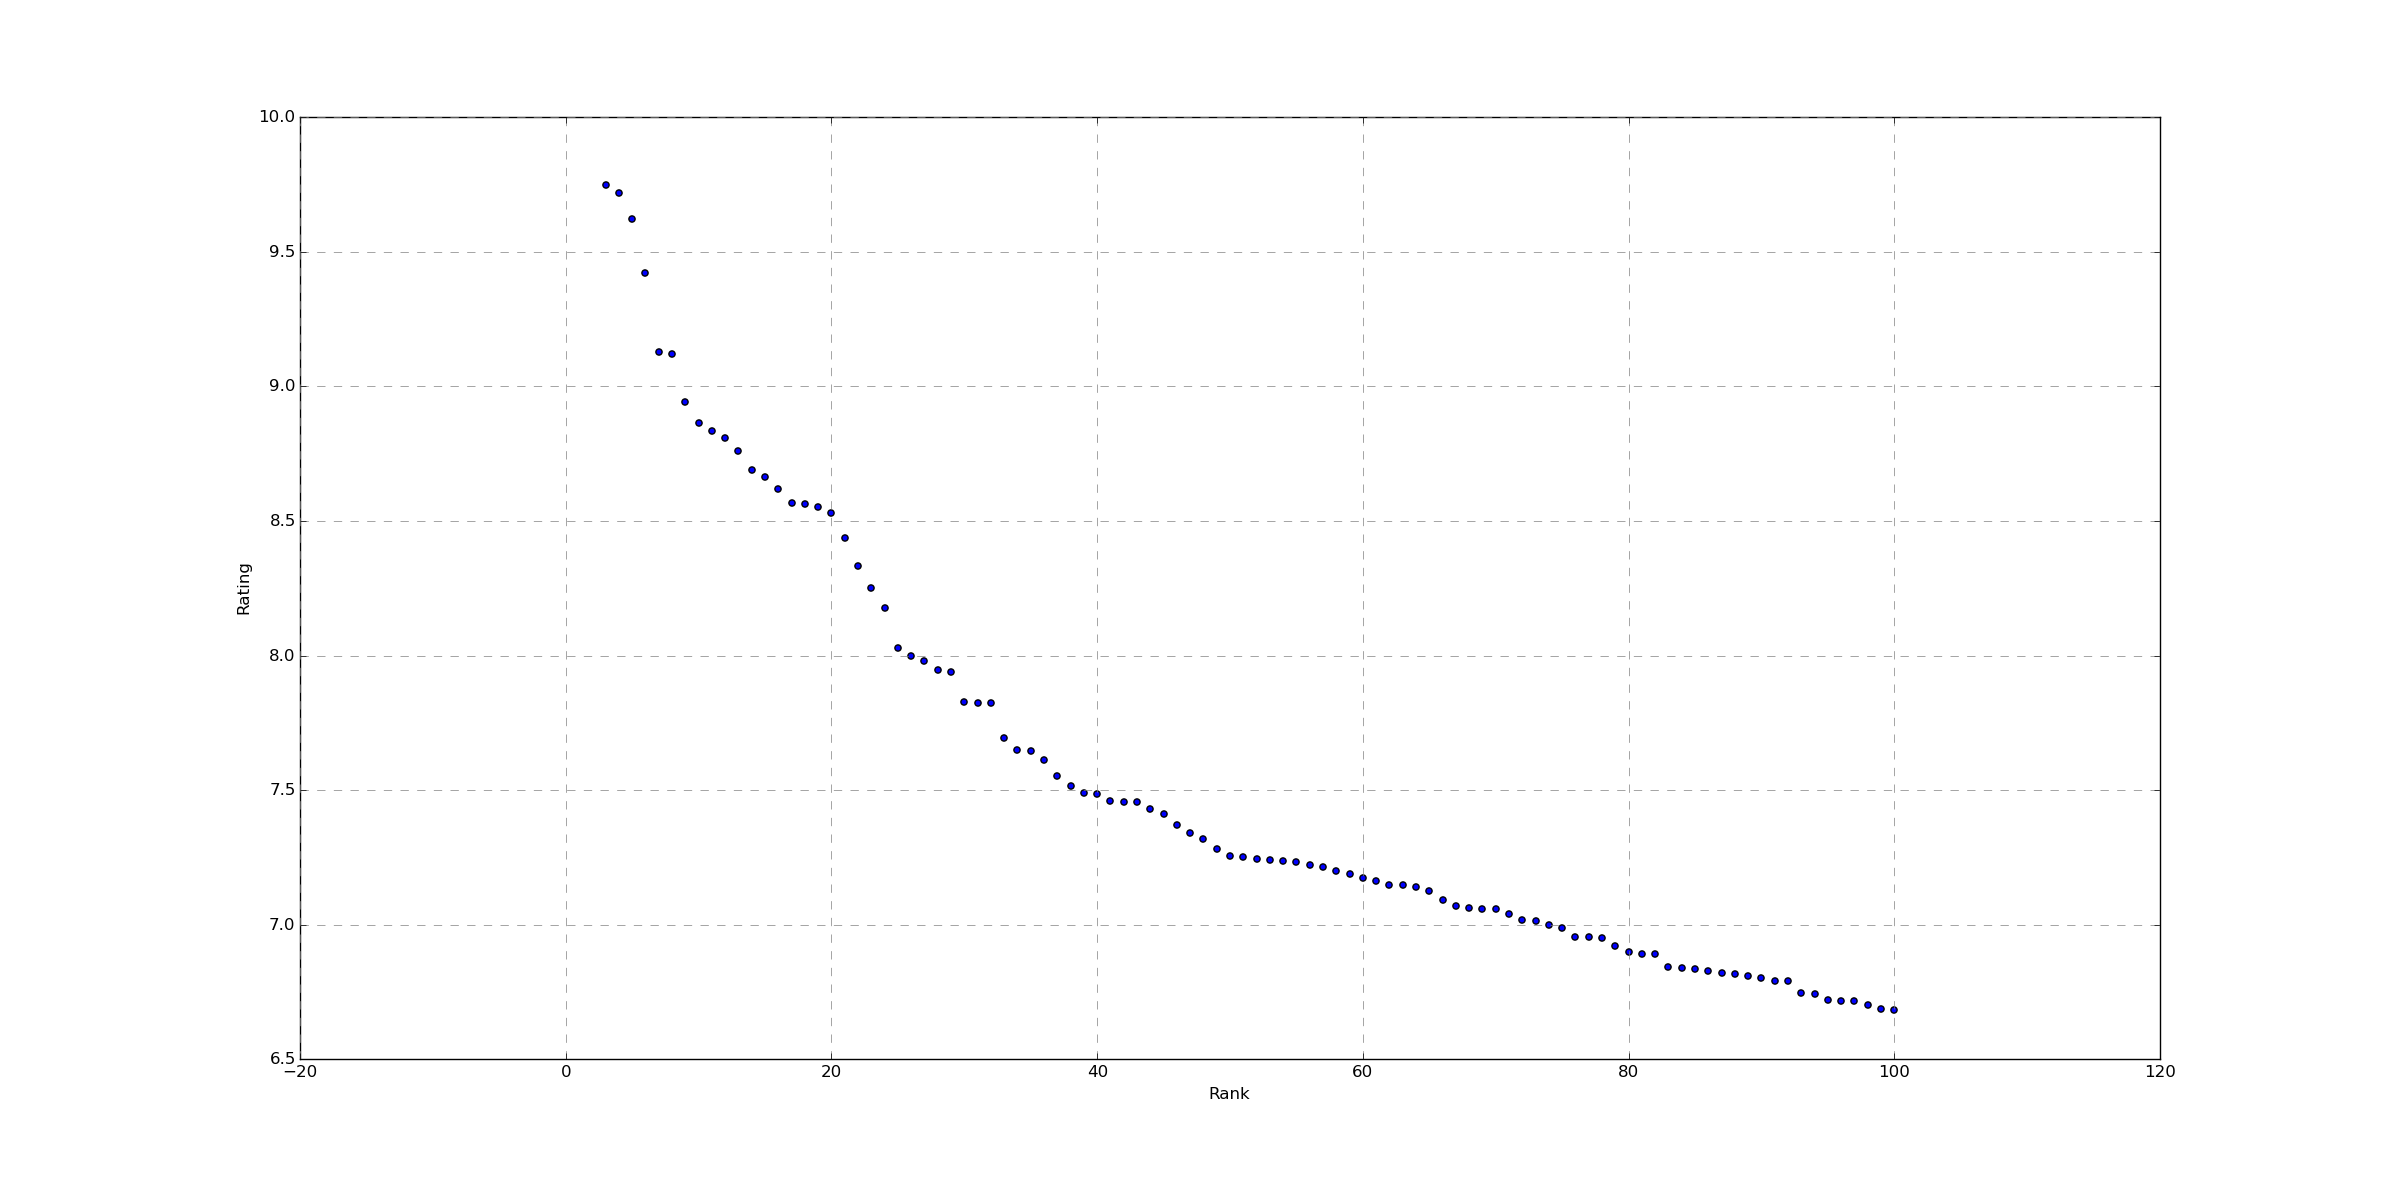
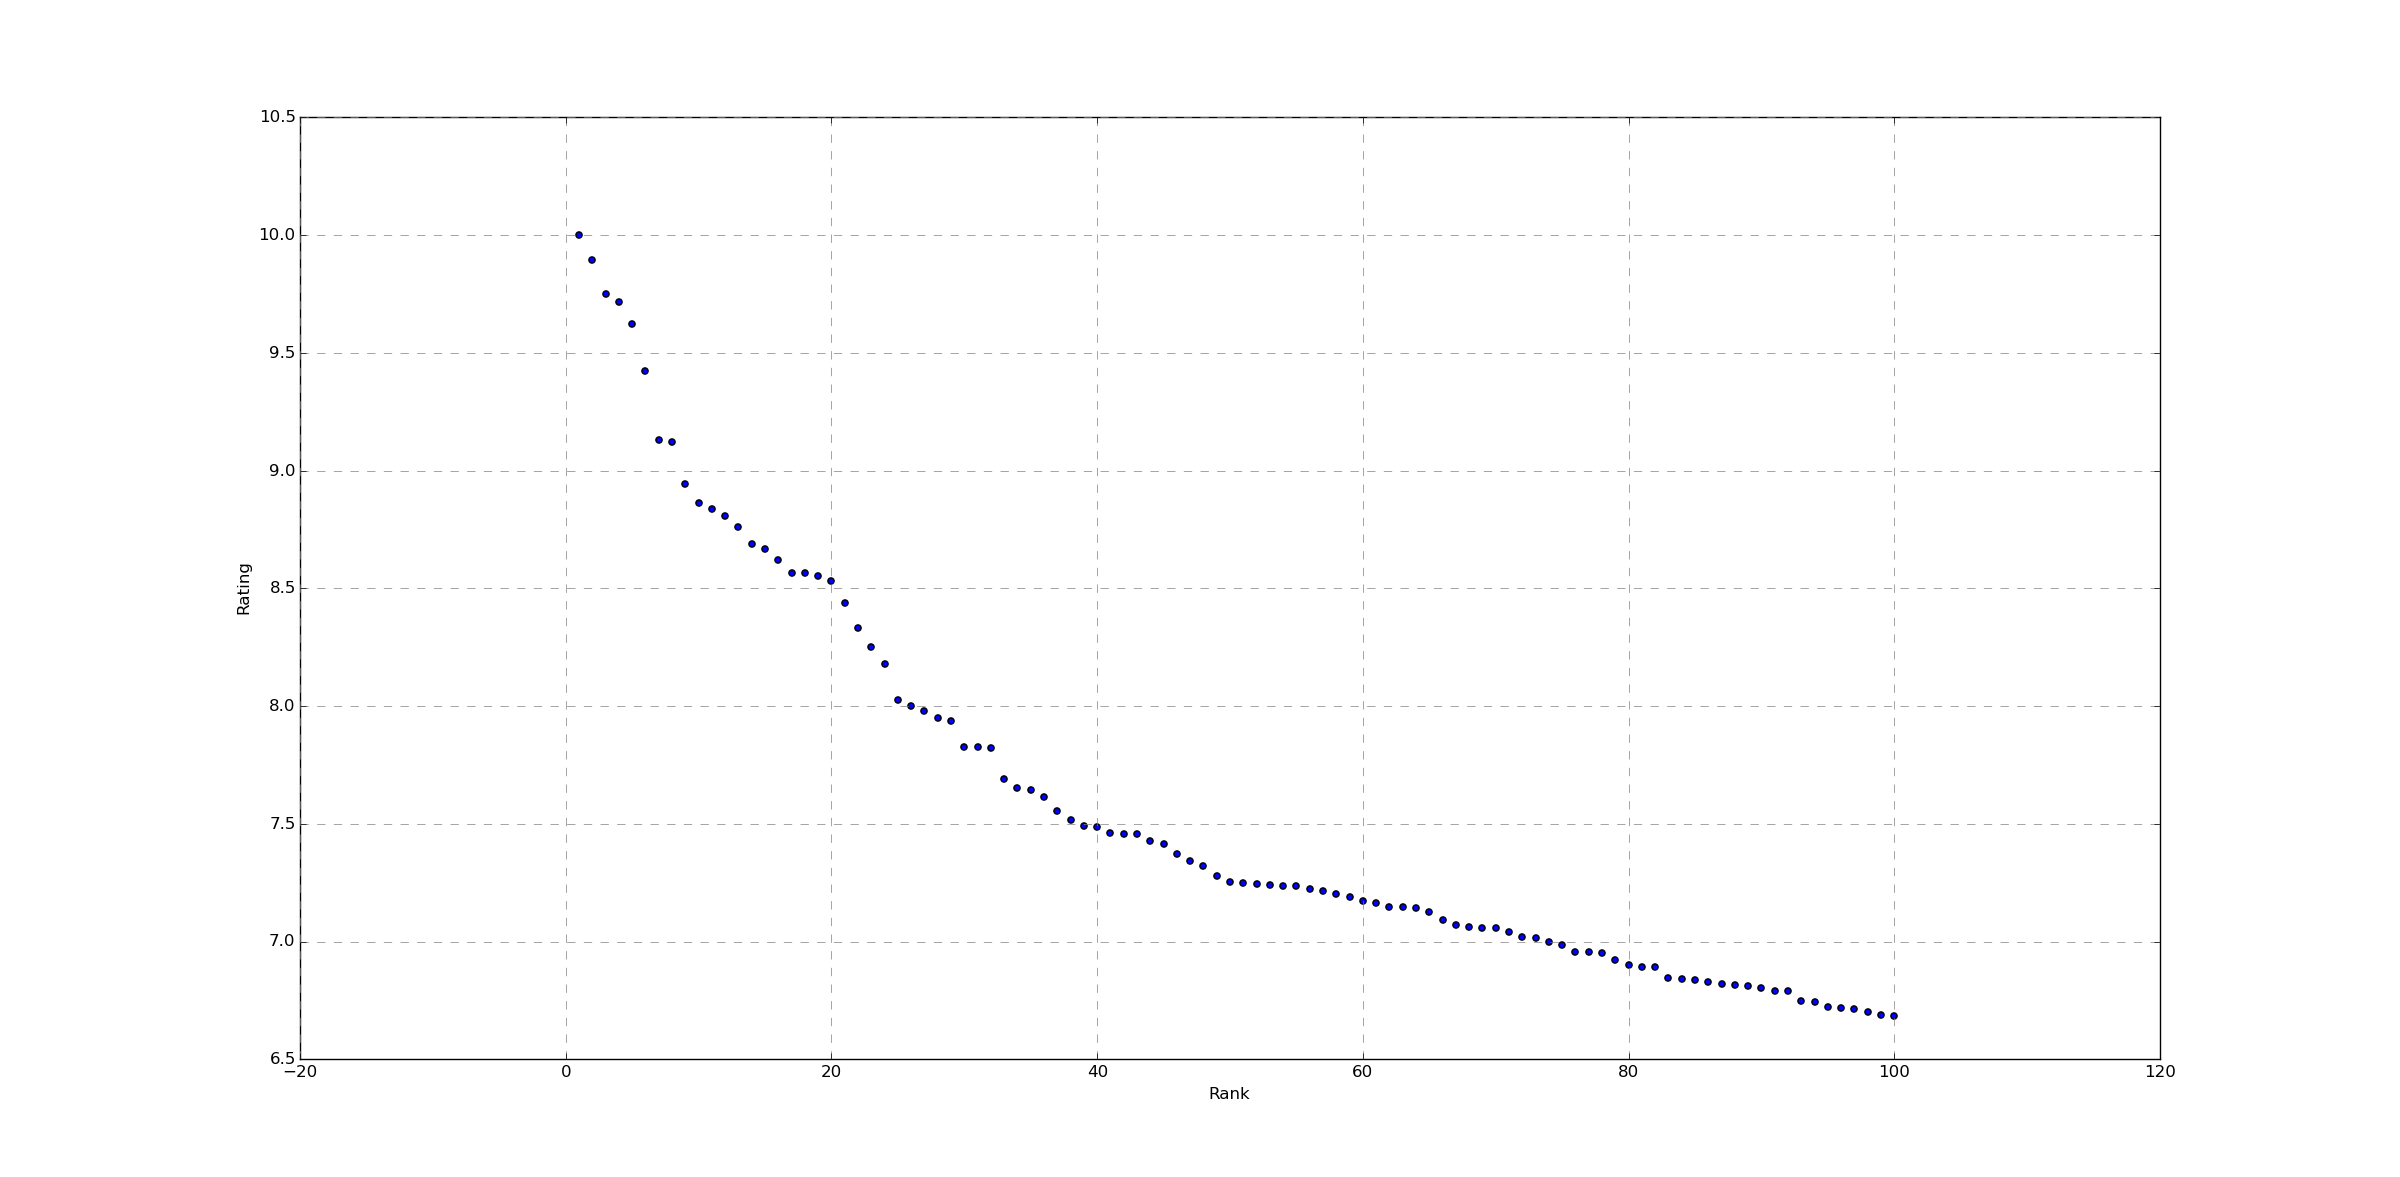
Updated with 2014 MIOM ranks 2-1
with jank special-casing for different formatting

diff --git a/miom_top100_2014/siteparser.py b/miom_top100_2014/siteparser.py
@@ -5,6 +5,7 @@ import re
 import numpy as np
 import matplotlib.pyplot as plt
 import itertools
+import string
 
 URLS_FILE = "urls.txt"
 
@@ -61,7 +62,7 @@ def parse_rankings_page(html):
 
     ret = []
     for tbody in tbodies:
-        rows = tbody.select("tr")
+        rows = tbody.select("> tr")
         if rows[0].select("td")[0].text != 'Rank':
             continue
         player_info = [i for i in rows[0].select("td")[1].strings if len(i) > 1]
@@ -93,13 +94,21 @@ def parse_rankings_page(html):
                 rank_delta_str = str(rank_delta)
 
         mains = rows[1].select("td")[3].text.strip()
-        region = rows[1].select("td")[5].text.strip()
-
-        rating = rows[1].select("td")[6].text.strip()
-
         results = {}
-        for i in xrange(len(tourneys)):
-            results[tourneys[i]] = rows[4].select("td")[i].text.strip()
+
+        if mains == '': # Tafo why did you format #1 and 2 differently
+            print tag, "mains: ", mains, "."
+            mains = string.capwords(', '.join([img['alt'] for img in rows[1].select("td")[3].select("img")]).strip('9 '), ', ')
+            region = rows[2].select("td")[1].text.strip()
+            rating = rows[1].select("> td")[4].text.strip()
+            for i in xrange(len(tourneys)):
+                results[tourneys[i]] = rows[5].select("td")[i].text.strip()
+        else:
+            region = rows[1].select("td")[5].text.strip()
+            rating = rows[1].select("td")[6].text.strip()
+            for i in xrange(len(tourneys)):
+                results[tourneys[i]] = rows[4].select("td")[i].text.strip()
+
 
         player_parsed = [sponsors, first, last, tag,
             twitter, rank, previous_rank, rank_delta_str, mains, region, rating]
